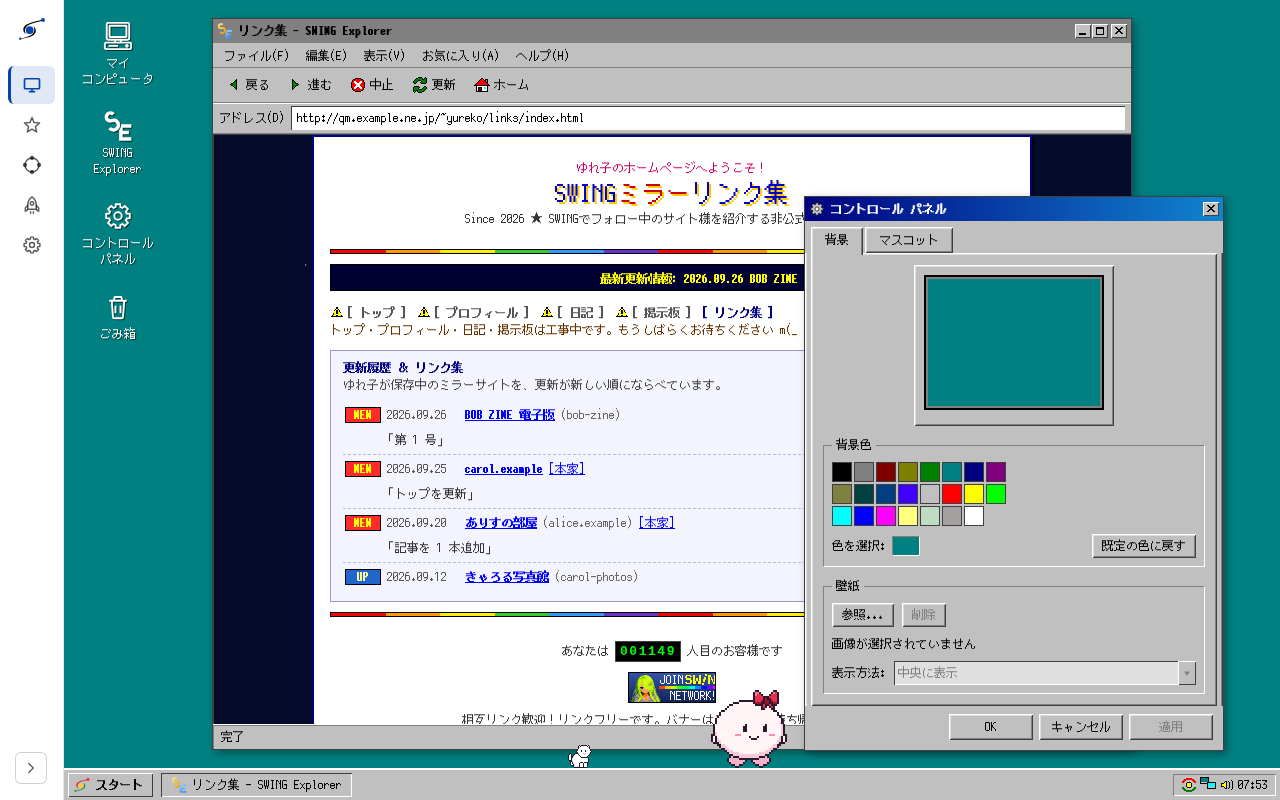
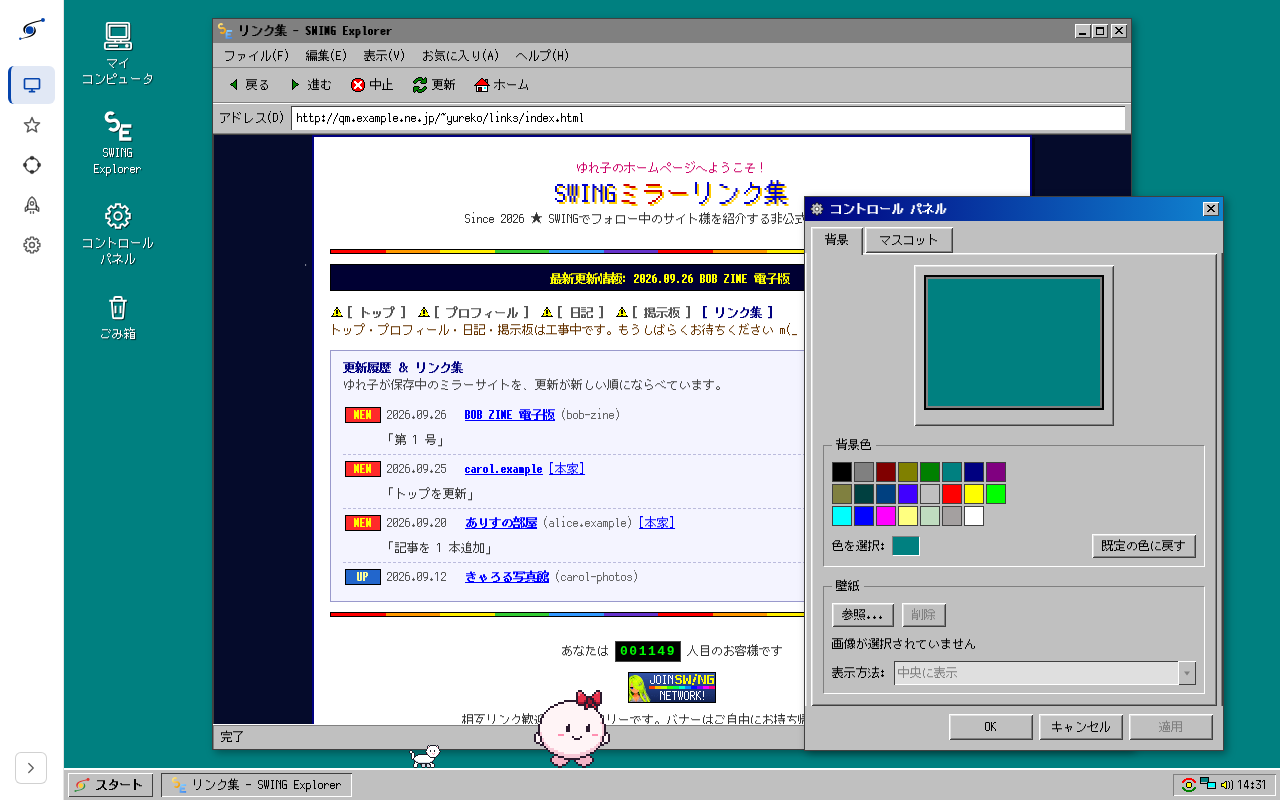
Show the Desktop screen in the README as an animated WebP and script its capture
Claude-Session: https://claude.ai/code/session_01VAVXKn44Uai4VkRLjkV9dA

diff --git a/docs/log/2026-09-26-readme-desktop-animation.md b/docs/log/2026-09-26-readme-desktop-animation.md
@@ -1,0 +1,27 @@
+# README の Desktop 画面をアニメーションにする
+
+README の Desktop 画面のスクリーンショットを、マーキー・NEW バッジ・マスコットが動き、コントロール パネルを開いて動かすまでを見せるアニメーションに置き換えた。撮影はスクリプトにして、静止画も同じスクリプトで撮る。
+
+## 決めたこと
+
+- 形式はアニメーション WebP。GitHub の README では、リポジトリ内のファイルを相対パスで `<video>` に指定しても再生されないので、webm や mp4 は使えない。`<img>` のまま動く WebP・APNG・GIF のうち、同じ録画で GIF（パレット化）が 3.2MB、WebP（品質 80）が 1.5MB だったので WebP にした。
+- 原寸 1280×800 のまま出して、表示幅は今までどおり `width="900"` で縮める。900px に縮めてから出すとドットフォントがにじむ。
+- 10fps。15fps はドラッグがなめらかになるが、サイズが 3 割ほど増える。
+- 可逆 WebP にはしない。録画が非可逆の webm で、文字のまわりに乗るノイズがコマごとに変わるため、4MB を超える。
+- マウスカーソルは映さない。録画ツールが重ねるカーソルは Windows 風の見た目にならない。
+- ループはぴったりにつながない。マスコットが乱数で歩くので、最後のコマ（ダイアログが開いている）から最初のコマへ切り替わる形にした。
+- マスコットがダイアログの下を歩くと見づらいので、撮影するブラウザだけ `Math.random` をシード固定で 0〜0.45 を返すものに差し替え、出現位置と歩く先をデスクトップの左側に寄せる。アプリのコードには手を入れない。
+- `prefers-reduced-motion: reduce` のときは `<picture>` で静止画（PNG）を出す。静止画は WebP の最後のコマと同じ配置に撮り直した（前の静止画はマスコットがダイアログの近くにいた）。
+- 撮影手順が AGENTS.md の表のセルに収まらなくなったので、`docs/assets/capture.md` に移し、表からはリンクだけにした。
+
+## 作ったもの
+
+- `docs/assets/capture-desktop.sh`: デモ環境にログインし、`agent-browser` で `#/desktop` を録画して `ffmpeg` で WebP にし、続けて静止画を撮る。言語とサイドナビの状態は localStorage に入れておく。静止画は、マーキーの文字がダイアログに隠れず全部見えていて、NEW バッジが点灯しているコマになるまで撮り直す。
+- `docs/assets/capture.md`: 撮り方の手順と条件。
+- `docs/assets/dashboard-desktop.webp`（約 10 秒・95 コマ・1.3MB）と、撮り直した `dashboard-desktop.png`。
+
+## 検証
+
+デモ環境でスクリプトを実行し、WebP のコマを並べて、全コマでマスコットがダイアログに被っていないこと、ダイアログが最後に前の静止画と同じ位置で止まることを確かめた。静止画は、マーキーの文字と点灯した NEW バッジが写っていることを見て確かめた。
+
+あわせて、GitHub で URL の後ろの全角文字までリンクになっていた bare URL（AGENTS.md と `docker/demo/README.md`）を `<...>` で囲んだ。

diff --git a/docs/assets/capture.md b/docs/assets/capture.md
@@ -1,0 +1,24 @@
+# README の画面素材の撮り方
+
+どちらも同じスクリプトで、デモ環境（`docker/demo/demo.sh up --seed`）の `#/desktop` を、1280×800・等倍・サイドナビ collapsed・日本語で撮る。画面の見た目を変えたら撮り直す。
+
+```sh
+docker/demo/demo.sh up --seed
+docs/assets/capture-desktop.sh            # docs/assets/dashboard-desktop.webp と .png を上書きする
+docs/assets/capture-desktop.sh out.webp   # out.webp と out.png に出す
+```
+
+`agent-browser` と、`libwebp_anim` 入りの `ffmpeg` が要る。
+
+## `dashboard-desktop.webp`（README の本体）
+
+- 流れ: 3 秒ほどそのまま（マーキー・NEW バッジ・マスコット）→ コントロール パネルのアイコンをダブルクリック → ダイアログを SWING Explorer ウィンドウの右下に重なる位置（ダイアログの左上がビューポートの (804, 196)）までドラッグ → 5 秒ほどそのまま。
+- マウスカーソルは映さない。
+- マスコットがダイアログの下を歩かないよう、撮影するブラウザだけ `Math.random` をシード固定で 0〜0.45 の値を返すものに差し替えて、出現位置も歩く先もデスクトップの左側に寄せる。アプリのコードには手を入れない。
+- 録画（webm）の先頭 1 秒を落とし、10fps・品質 80 のアニメーション WebP（無限ループ）にする。約 10 秒で 1.3MB 前後。可逆にすると録画のノイズで 4MB を超えるので使わない。
+
+撮れたらコマを並べて、マスコットがダイアログに被っていないか、ダイアログが最後に上の位置で止まっているかを確かめる。
+
+## `dashboard-desktop.png`（動きを減らす設定のときの静止画）
+
+README では `prefers-reduced-motion: reduce` のときにこちらを出す。録画を止めた直後の、WebP の最後のコマと同じ配置で撮る。マーキーの文字がダイアログに隠れず全部見えていて、NEW バッジが点灯しているコマになるまで撮り直す。

diff --git a/README.md b/README.md
@@ -6,7 +6,10 @@
 </p>
 
 <p align="center">
-  <img src="docs/assets/dashboard-desktop.png" alt="ダッシュボードの Desktop 画面。Windows 風デスクトップの上のブラウザウィンドウに、保存中のサイトのリンク集が並び、右下にデスクトップの背景を設定するコントロール パネルのダイアログが開いている。タスクバーの上にはマスコットが 2 体立っている" width="900">
+  <picture>
+    <source media="(prefers-reduced-motion: reduce)" srcset="docs/assets/dashboard-desktop.png">
+    <img src="docs/assets/dashboard-desktop.webp" alt="ダッシュボードの Desktop 画面。Windows 風デスクトップの上のブラウザウィンドウに、保存中のサイトのリンク集が並び、最新の更新情報がマーキーで流れている。コントロール パネルのアイコンから、デスクトップの背景を設定するダイアログを開いて右下へドラッグする。タスクバーの上ではマスコットが 2 体歩き回っている" width="900">
+  </picture>
   <br>
   <sub>Desktop 画面（<a href="docker/demo/README.md">デモ環境</a>のサンプルデータ）</sub>
 </p>
